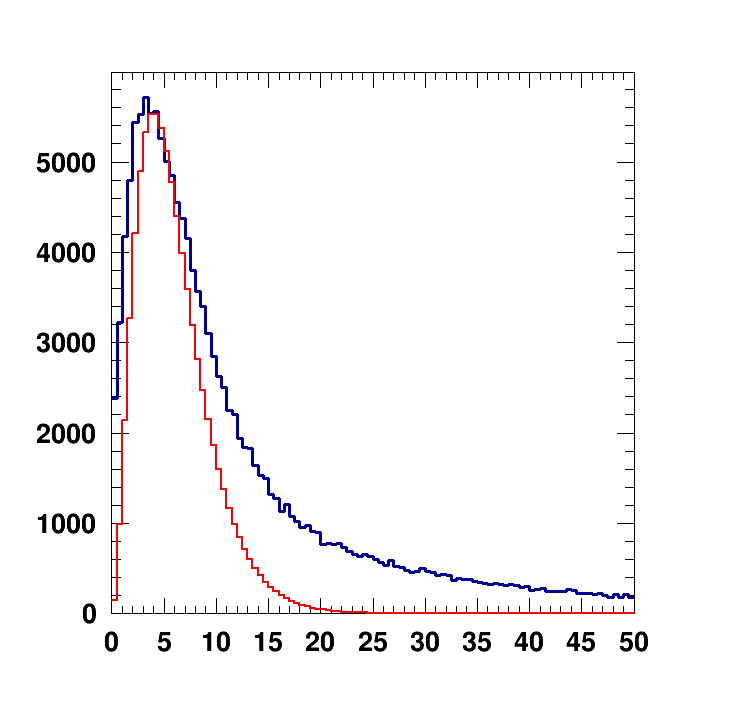
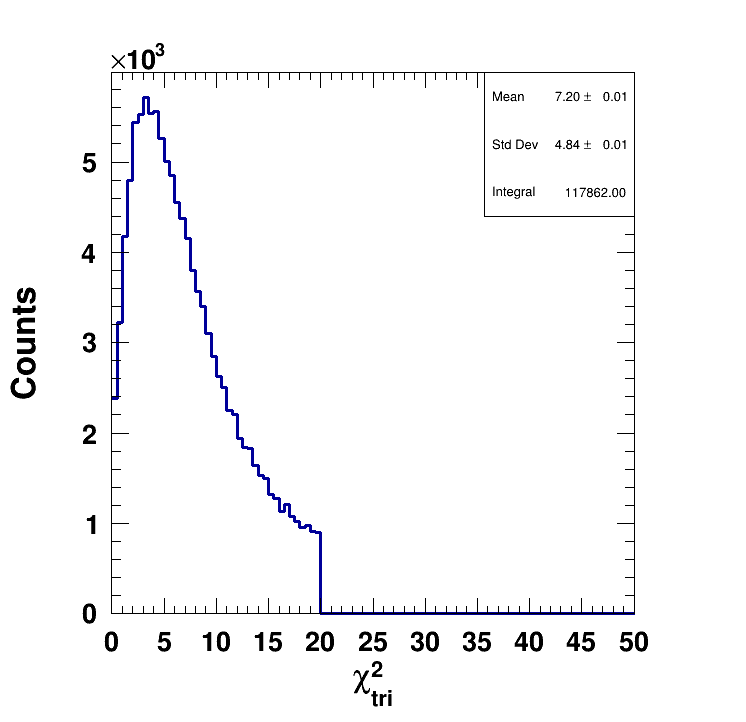
Kinematic fit w/o energy constraint

diff --git a/Neutrec/comp_of_methods.cpp b/Neutrec/comp_of_methods.cpp
@@ -10,6 +10,7 @@
 #include <TCanvas.h>
 #include <TStyle.h>
 #include <TLatex.h>
+#include <TFitResult.h>
 
 #include "chain_init.C"
 #include "../../Include/const.h"
@@ -67,47 +68,122 @@ int comp_of_methods()
   UInt_t nentries = (UInt_t)chain->GetEntries();
 
   Float_t lengthneu_mc, lengthneu_tri, lengthneu_rec, lengthch_mc, lengthch_rec,
-          v_Kneutri, v_Kchrec, v_Kneurec, v_Kneumc, v_Kchmc,
-          t_chmc, t_neumc, t_chrec, t_neutri, t_neurec;
+      v_Kneutri, v_Kchrec, v_Kneurec, v_Kneumc, v_Kchmc,
+      t_chmc, t_neumc, t_chrec, t_neutri, t_neurec, Rtneu_rec, Rtneu_mc, Rtneu_tri,
+      angle_path_mom, cos_path_mom;
 
   TString id_hist;
-  TH1 *dttri_hist;
-  TH2 *neu_vtx_corr[4];
+  TH1 *dttri_hist, *prob_hist;
+  TH2 *neu_vtx_corr[4], *neu_mom[4], *ip_coor[3];
 
-  for(Int_t i = 0; i < 3; i++)
+  TH2 *sigmas_std[5], *sigmas_tri[5], *sigmas_tri_kin_fit[5];
+  TH1 *neu_std_hist[5], *neu_tri_hist[5], *neu_tri_kin_fit_hist[5];
+  TH1 *res_std_hist[5], *res_tri_hist[5], *res_tri_kin_fit_hist[5];
+
+  for (Int_t i = 0; i < 3; i++)
   {
     id_hist = "Coor" + std::to_string(i);
     neu_vtx_corr[i] = new TH2F(id_hist, "", 100, -50, 50, 100, -50, 50);
+
+    id_hist = "Mom" + std::to_string(i);
+    neu_mom[i] = new TH2F(id_hist, "", 200, -300, 300, 200, -300, 300);
+
+    id_hist = "IP coor" + std::to_string(i);
+    ip_coor[i] = new TH2F(id_hist, "", 100, -0.2, 0.5, 100, -0.2, 0.5);
   }
 
-  neu_vtx_corr[3] = new TH2F("Lengths", "", 201, 0, 100, 201, 0, 100);
+  neu_vtx_corr[3] = new TH2F("Lengths", "", 100, 0, 20, 100, 0, 20);
+  neu_mom[3] = new TH2F("Energies", "", 100, 504, 520, 100, 480, 600);
 
   dttri_hist = new TH1F("Dttri", "", 100, 0, 50);
+  prob_hist = new TH1F("Prob", "", 100, 0, 1);
 
+  TCanvas *canvas[30];
+
+  const UInt_t number_of_points = 21;
+
+  TString name[4] = {"x", "y", "z", "length"};
+
+  for (Int_t i = 0; i < 4; i++)
+  {
+    if (i < 2)
+    {
+      neu_std_hist[i] = new TH1F(name[i] + " std coor", "", 100, -200, 200);
+      neu_tri_hist[i] = new TH1F(name[i] + " tri coor", "", 100, -200, 200);
+      neu_tri_kin_fit_hist[i] = new TH1F(name[i] + " kinfit coor", "", 100, -165, 165);
+      res_std_hist[i] = new TH1F(name[i] + " std res", "", number_of_points, 0, 50);
+      res_tri_hist[i] = new TH1F(name[i] + " tri res", "", number_of_points, 0, 50);
+      res_tri_kin_fit_hist[i] = new TH1F(name[i] + " kinfit res", "", number_of_points, 0, 50);
+      sigmas_std[i] = new TH2F(name[i] + " sigmas std", "", number_of_points, 0, 50, 100, -100, 100);
+      sigmas_tri[i] = new TH2F(name[i] + " sigmas tri", "", number_of_points, 0, 50, 100, -100, 100);
+      sigmas_tri_kin_fit[i] = new TH2F(name[i] + " sigmas kinfit", "", number_of_points, 0, 50, 100, -100, 100);
+    }
+    else if (i == 2)
+    {
+      neu_std_hist[i] = new TH1F(name[i] + " std", "", 100, 0, 5);
+      neu_tri_hist[i] = new TH1F(name[i] + " tri", "", 100, 0, 5);
+      neu_tri_kin_fit_hist[i] = new TH1F(name[i] + " kinfit", "", 100, 0, 5);
+      res_std_hist[i] = new TH1F(name[i] + " std res", "", number_of_points, 0, 50);
+      res_tri_hist[i] = new TH1F(name[i] + " tri res", "", number_of_points, 0, 50);
+      res_tri_kin_fit_hist[i] = new TH1F(name[i] + " kinfit res", "", number_of_points, 0, 50);
+      sigmas_std[i] = new TH2F(name[i] + " sigmas std", "", number_of_points, 0, 50, 100, -100, 100);
+      sigmas_tri[i] = new TH2F(name[i] + " sigmas tri", "", number_of_points, 0, 50, 100, -100, 100);
+      sigmas_tri_kin_fit[i] = new TH2F(name[i] + " sigmas kinfit", "", number_of_points, 0, 50, 100, -100, 100);
+    }
+    else if (i == 3)
+    {
+      neu_std_hist[i] = new TH1F(name[i] + " std", "", 100, 0, 5);
+      neu_tri_hist[i] = new TH1F(name[i] + " tri", "", 100, 0, 5);
+      neu_tri_kin_fit_hist[i] = new TH1F(name[i] + " kinfit", "", 100, 0, 5);
+      res_std_hist[i] = new TH1F(name[i] + " std res", "", number_of_points, 0, 90);
+      res_tri_hist[i] = new TH1F(name[i] + " tri res", "", number_of_points, 0, 90);
+      res_tri_kin_fit_hist[i] = new TH1F(name[i] + " kinfit res", "", number_of_points, 0, 90);
+      sigmas_std[i] = new TH2F(name[i] + " sigmas std", "", number_of_points, 0, 90, 200, -100, 100);
+      sigmas_tri[i] = new TH2F(name[i] + " sigmas tri", "", number_of_points, 0, 90, 200, -100, 100);
+      sigmas_tri_kin_fit[i] = new TH2F(name[i] + " sigmas kinfit", "", number_of_points, 0, 90, 200, -100, 100);
+    }
+
+  }
+
+  for (Int_t i = 0; i < 30; i++)
+    canvas[i] = new TCanvas(("Canvas" + std::to_string(i)).c_str(), "", 750, 750);
 
   for (Int_t i = 0; i < nentries; i++)
   {
     chain->GetEntry(i);
 
-    if (done_kinfit == 1)
+    if (done_kinfit == 1 && chi2min < 20)
     {
+      ip_coor[0]->Fill(ipmc[0], ip_kinfit[0]);
+      ip_coor[1]->Fill(ipmc[1], ip_kinfit[1]);
+      ip_coor[2]->Fill(ipmc[2], ip_kinfit[2]);
+
       neu_vtx_corr[0]->Fill(Knemc[6], Knetri_kinfit[6]);
       neu_vtx_corr[1]->Fill(Knemc[7], Knetri_kinfit[7]);
       neu_vtx_corr[2]->Fill(Knemc[8], Knetri_kinfit[8]);
 
-      lengthneu_mc = sqrt(pow(Knemc[6] - ipmc[0],2) + pow(Knemc[7] - ipmc[1],2) + pow(Knemc[8] - ipmc[2],2));
-      lengthneu_tri = sqrt(pow(Knetri_kinfit[6] - ip_kinfit[0],2) + pow(Knetri_kinfit[7] - ip_kinfit[1],2) + pow(Knetri_kinfit[8] - ip_kinfit[2],2));
-      lengthneu_rec = sqrt(pow(Knereclor[6] - ip[0],2) + pow(Knereclor[7] - ip[1],2) + pow(Knereclor[8] - ip[2],2));
+      neu_mom[0]->Fill(Knemc[0], Knetri_kinfit[0]);
+      neu_mom[1]->Fill(Knemc[1], Knetri_kinfit[1]);
+      neu_mom[2]->Fill(Knemc[2], Knetri_kinfit[2]);
+      neu_mom[3]->Fill(Knemc[3], Knetri_kinfit[3]);
 
-      lengthch_mc = sqrt(pow(Kchmc[6] - ipmc[0],2) + pow(Kchmc[7] - ipmc[1],2) + pow(Kchmc[8] - ipmc[2],2));
-      lengthch_rec = sqrt(pow(Kchboost[6] - ip[0],2) + pow(Kchboost[7] - ip[1],2) + pow(Kchboost[8] - ip[2],2));
+      lengthneu_mc = sqrt(pow(Knemc[6] - ipmc[0], 2) + pow(Knemc[7] - ipmc[1], 2) + pow(Knemc[8] - ipmc[2], 2));
+      lengthneu_tri = sqrt(pow(Knetri_kinfit[6] - ip_kinfit[0], 2) + pow(Knetri_kinfit[7] - ip_kinfit[1], 2) + pow(Knetri_kinfit[8] - ip_kinfit[2], 2));
+      lengthneu_rec = sqrt(pow(Knereclor[6] - ip[0], 2) + pow(Knereclor[7] - ip[1], 2) + pow(Knereclor[8] - ip[2], 2));
 
-      v_Kneumc = c_vel * Knemc[4]/Knemc[3];
-      v_Kneutri = c_vel * Knetri_kinfit[4]/Knetri_kinfit[3];
-      v_Kneurec = c_vel * Knereclor[5]/Knereclor[3];
+      lengthch_mc = sqrt(pow(Kchmc[6] - ipmc[0], 2) + pow(Kchmc[7] - ipmc[1], 2) + pow(Kchmc[8] - ipmc[2], 2));
+      lengthch_rec = sqrt(pow(Kchboost[6] - ip[0], 2) + pow(Kchboost[7] - ip[1], 2) + pow(Kchboost[8] - ip[2], 2));
 
-      v_Kchmc = c_vel * Kchmc[4]/Kchmc[3];
-      v_Kchrec = c_vel * Kchboost[4]/Kchboost[3];
+      Rtneu_mc = sqrt(pow(Knemc[6] - ipmc[0], 2) + pow(Knemc[7] - ipmc[1], 2));
+      Rtneu_tri = sqrt(pow(Knetri_kinfit[6] - ip_kinfit[0], 2) + pow(Knetri_kinfit[7] - ip_kinfit[1], 2));
+      Rtneu_rec = sqrt(pow(Knereclor[6] - ip[0], 2) + pow(Knereclor[7] - ip[1], 2));
+
+      v_Kneumc = c_vel * Knemc[4] / Knemc[3];
+      v_Kneutri = c_vel * Knetri_kinfit[4] / Knetri_kinfit[3];
+      v_Kneurec = c_vel * Knereclor[5] / Knereclor[3];
+
+      v_Kchmc = c_vel * Kchmc[4] / Kchmc[3];
+      v_Kchrec = c_vel * Kchboost[4] / Kchboost[3];
 
       t_chrec = lengthch_rec / v_Kchrec;
       t_chmc = lengthch_mc / v_Kchmc;
@@ -116,49 +192,192 @@ int comp_of_methods()
       t_neutri = lengthneu_tri / v_Kneutri;
       t_neumc = lengthneu_mc / v_Kneumc;
 
-      neu_vtx_corr[3]->Fill(t_chrec/tau_S_nonCPT, t_neutri/tau_S_nonCPT, interf_function((t_chmc - t_neumc)/tau_S_nonCPT));
+      cos_path_mom = ((Knetri_kinfit[6] - ip_kinfit[0])*Knetri_kinfit[0] + (Knetri_kinfit[7] - ip_kinfit[1])*Knetri_kinfit[1] + (Knetri_kinfit[8] - ip_kinfit[2])*Knetri_kinfit[2])/ (lengthneu_tri*sqrt(pow(Knetri_kinfit[0],2) + pow(Knetri_kinfit[1],2) + pow(Knetri_kinfit[2],2)));
+      angle_path_mom = M_PI*acos(cos_path_mom)/180.;
+
+      neu_vtx_corr[3]->Fill(t_neumc, Knetri_kinfit[9]);
 
       dttri_hist->Fill(chi2min);
+      prob_hist->Fill(TMath::Prob(chi2min, 6));
 
+      sigmas_std[0]->Fill(abs(Knemc[6] - ipmc[0]), Knereclor[6] - Knemc[6]);
+      sigmas_std[1]->Fill(abs(Knemc[7] - ipmc[1]), Knereclor[7] - Knemc[7]);
+      sigmas_std[2]->Fill(abs(Knemc[8] - ipmc[2]), Knereclor[8] - Knemc[8]);
+      sigmas_std[3]->Fill(t_neumc/tau_S_nonCPT, (t_neurec - t_neumc)/tau_S_nonCPT);
     }
   }
 
-  gStyle->SetOptStat(0);
+  gStyle->SetOptStat("iMR");
+  gStyle->SetStatX(0.85);
+  gStyle->SetStatY(0.9);
 
-  TCanvas *c[5];
-  TString id_canva;
+  TCanvas *c[20];
+  TString id_canva, x_title, y_title;
   Int_t width = 750, height = 750;
 
-  for(Int_t i = 0; i < 4; i++)
+  for (Int_t i = 0; i < 3; i++)
   {
-    id_canva = "Canva" + std::to_string(i);
+    id_canva = "coor" + std::to_string(i + 1);
     c[i] = new TCanvas(id_canva, "", width, height);
     c[i]->SetRightMargin(0.15);
     c[i]->cd();
 
-    neu_vtx_corr[i]->GetXaxis()->SetTitle("V^{neu}_{gen} [cm]");
-    neu_vtx_corr[i]->GetYaxis()->SetTitle("V^{neu}_{tri} [cm]");
+    x_title = Form("#vec{X}_{neu,%d}^{gen} [cm]", i + 1);
+    y_title = Form("#vec{X}_{neu,%d}^{tri} [cm]", i + 1);
+
+    neu_vtx_corr[i]->GetXaxis()->SetTitle(x_title);
+    neu_vtx_corr[i]->GetYaxis()->SetTitle(y_title);
     neu_vtx_corr[i]->Draw("COLZ");
 
     c[i]->Print(id_canva + ".png");
+
+    id_canva = "ip_coor" + std::to_string(i + 1);
+    c[i + 6] = new TCanvas(id_canva, "", width, height);
+    c[i + 6]->SetRightMargin(0.15);
+    c[i + 6]->cd();
+
+    x_title = Form("#vec{X}_{IP,%d}^{gen} [cm]", i + 1);
+    y_title = Form("#vec{X}_{IP,%d}^{tri} [cm]", i + 1);
+
+    ip_coor[i]->GetXaxis()->SetTitle(x_title);
+    ip_coor[i]->GetYaxis()->SetTitle(y_title);
+    ip_coor[i]->Draw("COLZ");
+
+    c[i + 6]->Print(id_canva + ".png");
+
+    id_canva = "mom" + std::to_string(i + 1);
+    c[i + 9] = new TCanvas(id_canva, "", width, height);
+    c[i + 9]->SetRightMargin(0.15);
+    c[i + 9]->cd();
+
+    x_title = Form("#vec{p}_{K#rightarrow#pi^{0}#pi^{0},%d}^{gen} [MeV/c]", i + 1);
+    y_title = Form("#vec{p}_{K#rightarrow#pi^{0}#pi^{0},%d}^{tri} [MeV/c]", i + 1);
+
+    neu_mom[i]->GetXaxis()->SetTitle(x_title);
+    neu_mom[i]->GetYaxis()->SetTitle(y_title);
+    neu_mom[i]->Draw("COLZ");
+
+    c[i + 9]->Print(id_canva + ".png");
   }
 
-  TF1 *func = new TF1("func",chi2dist,0,50,2);
-  func->SetParameters(dttri_hist->Integral(0,100)/10.,6);
-  func->SetParNames("Normalization","Degrees of freedom");
+  id_canva = "time_neutral";
+  c[3] = new TCanvas(id_canva, "", width, height);
+  c[3]->SetRightMargin(0.15);
+  c[3]->cd();
+
+  x_title = Form("t_{neu}^{gen} [ns]");
+  y_title = Form("t_{neu}^{tri} [ns]");
+
+  neu_vtx_corr[3]->GetXaxis()->SetTitle(x_title);
+  neu_vtx_corr[3]->GetYaxis()->SetTitle(y_title);
+  neu_vtx_corr[3]->Draw("COLZ");
+
+  c[3]->Print(id_canva + ".png");
+
+  id_canva = "energy";
+  c[12] = new TCanvas(id_canva, "", width, height);
+  c[12]->SetRightMargin(0.15);
+  c[12]->cd();
+
+  x_title = Form("E_{K#rightarrow#pi^{0}#pi^{0}}^{gen} [MeV]");
+  y_title = Form("E_{K#rightarrow#pi^{0}#pi^{0}}^{tri} [MeV]");
+
+  neu_mom[3]->GetXaxis()->SetTitle(x_title);
+  neu_mom[3]->GetYaxis()->SetTitle(y_title);
+  neu_mom[3]->Draw("COLZ");
+
+  c[12]->Print(id_canva + ".png");
+
+  TF1 *func1 = new TF1("func", chi2dist, 0, 50, 2);
+  func1->SetParameters(dttri_hist->Integral(0, 100) / 10., 6);
+  func1->SetParNames("Normalization", "Degrees of freedom");
 
   id_canva = "Canva" + std::to_string(4);
   c[4] = new TCanvas(id_canva, "", width, height);
   c[4]->SetRightMargin(0.15);
   c[4]->cd();
 
-  //dttri_hist->Fit(func);
+  dttri_hist->GetYaxis()->SetMaxDigits(3);
+
+  dttri_hist->GetXaxis()->CenterTitle();
+  dttri_hist->GetYaxis()->CenterTitle();
+  dttri_hist->GetXaxis()->SetTitle("#chi^{2}_{tri}");
+  dttri_hist->GetYaxis()->SetTitle("Counts");
   dttri_hist->Draw();
-  func->Draw("SAMES");
   c[4]->Print(id_canva + ".png");
 
+  id_canva = "Canva" + std::to_string(5);
+  c[5] = new TCanvas(id_canva, "", width, height);
+  c[5]->SetRightMargin(0.15);
+  c[5]->cd();
 
+  prob_hist->GetYaxis()->SetMaxDigits(3);
 
+  prob_hist->GetXaxis()->CenterTitle();
+  prob_hist->GetYaxis()->CenterTitle();
+  prob_hist->GetXaxis()->SetTitle("Prob(#chi^{2},6)");
+  prob_hist->GetYaxis()->SetTitle("Counts");
+  prob_hist->Draw();
+  c[5]->Print(id_canva + ".png");
+
+  TFitResultPtr r;
+  Float_t parameter[3];
+
+  TF1 *func = new TF1("f1", "[0]*exp(-0.5*pow((x-[1])/[2],2))", -200, 200);
+  func->SetParNames("Constant", "Mean", "Sigma");
+
+  Color_t res_color[4] = {kRed, kBlue, kGreen, kBlack};
+
+  for (Int_t j = 0; j < 4; j++)
+  {
+    for (Int_t i = 1; i <= number_of_points; i++)
+    {
+      parameter[0] = sigmas_std[j]->ProjectionY("_py", i, i)->Integral();
+      parameter[1] = sigmas_std[j]->ProjectionY("_py", i, i)->GetBinCenter(sigmas_std[j]->ProjectionY("_py", i, i)->GetMaximumBin());
+      parameter[2] = sigmas_std[j]->ProjectionY("_py", i, i)->GetStdDev();
+
+      func->SetParameters(parameter[0], parameter[1], parameter[2]);
+
+      func->SetParLimits(2,0.0001,100.);
+
+      r = sigmas_std[j]->ProjectionY("_py", i, i)->Fit("f1", "S");
+      res_std_hist[j]->SetBinContent(i, r->Parameter(2));
+      res_std_hist[j]->SetBinError(i, r->ParError(2));
+    }
+
+    res_std_hist[j]->SetLineColor(res_color[j]);
+  }
+
+  TLegend *legend = new TLegend(0.7, 0.7, 0.9, 0.9, "Axis");
+
+  legend->AddEntry(res_std_hist[0],"x", "le");
+  legend->AddEntry(res_std_hist[1],"y", "le");
+  legend->AddEntry(res_std_hist[2],"z", "le");
+
+  TString title_x[2] = {"|#vec{X}^{gen}_{K#rightarrow#pi^{0}#pi^{0},i} - #vec{X}^{gen}_{#Phi,i}| [cm]",
+                        "t_{K#rightarrow#pi^{0}#pi^{0}}^{gen} [#tau_{S}]"};
+
+  TString title_y[2] = {"#sigma(#vec{X}^{rec}_{K#rightarrow#pi^{0}#pi^{0},i} - #vec{X}^{gen}_{K#rightarrow#pi^{0}#pi^{0},i}) [cm]",
+                        "#sigma(t_{K#rightarrow#pi^{0}#pi^{0}}^{rec} - t_{K#rightarrow#pi^{0}#pi^{0}}^{gen}) [#tau_{S}]"};
+
+  gStyle->SetOptStat(0);
+
+  canvas[0]->cd();
+  res_std_hist[0]->SetXTitle(title_x[0]);
+  res_std_hist[0]->SetYTitle(title_y[0]);
+  res_std_hist[0]->GetYaxis()->SetRangeUser(0.0, 5.0);
+  res_std_hist[0]->Draw("PE1");
+  res_std_hist[1]->Draw("PE1SAME");
+  res_std_hist[2]->Draw("PE1SAME");
+  legend->Draw();
+  canvas[0]->Print(("sigmas_std" + std::to_string(0) + ".png").c_str());
+
+  canvas[1]->cd();
+  res_std_hist[3]->SetXTitle(title_x[1]);
+  res_std_hist[3]->SetYTitle(title_y[1]);
+  res_std_hist[3]->GetYaxis()->SetRangeUser(0.0, 5.0);
+  res_std_hist[3]->Draw("PE1");
+  canvas[1]->Print(("sigmas_std" + std::to_string(2) + ".png").c_str());
 
   return 0;
 }
